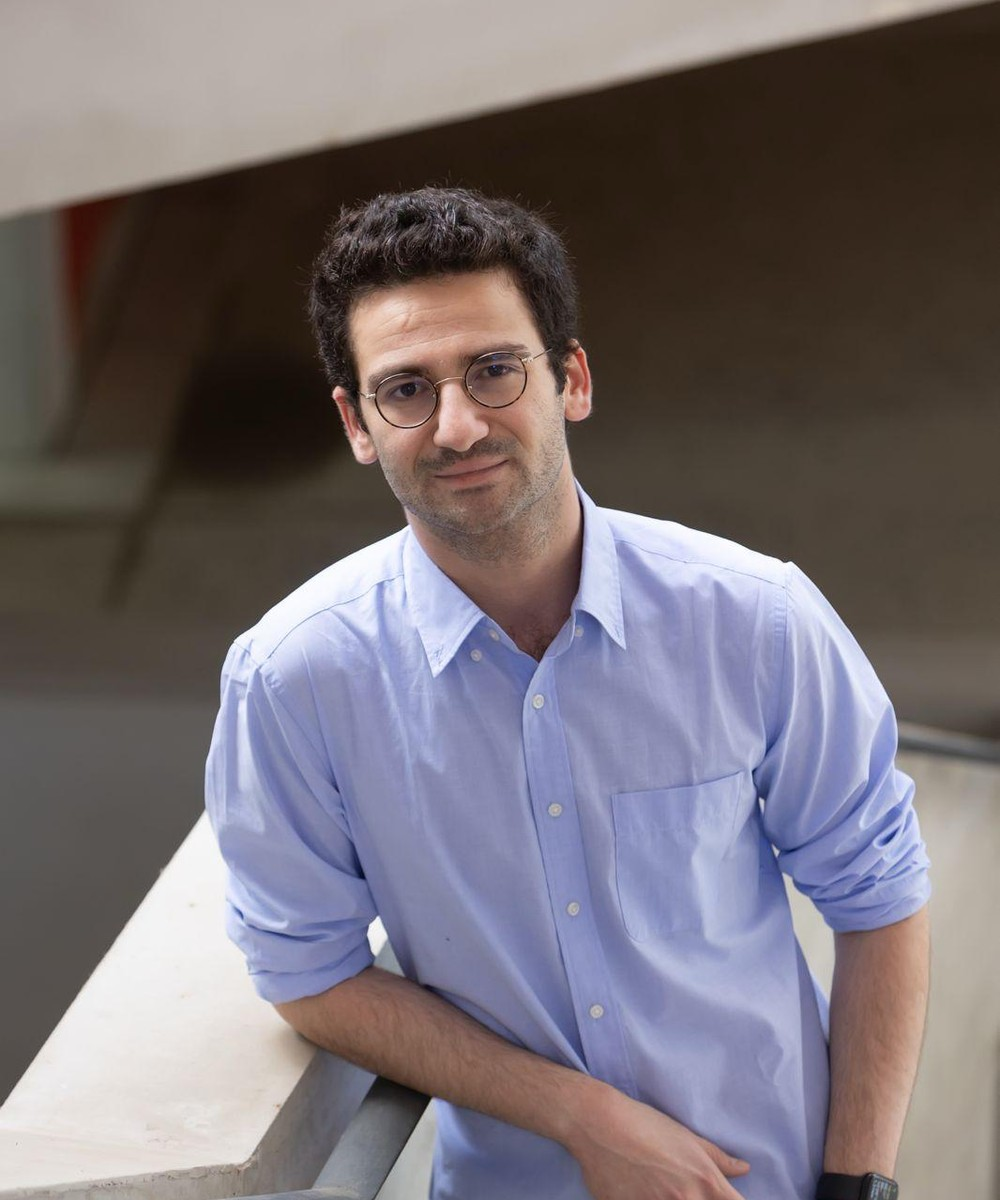
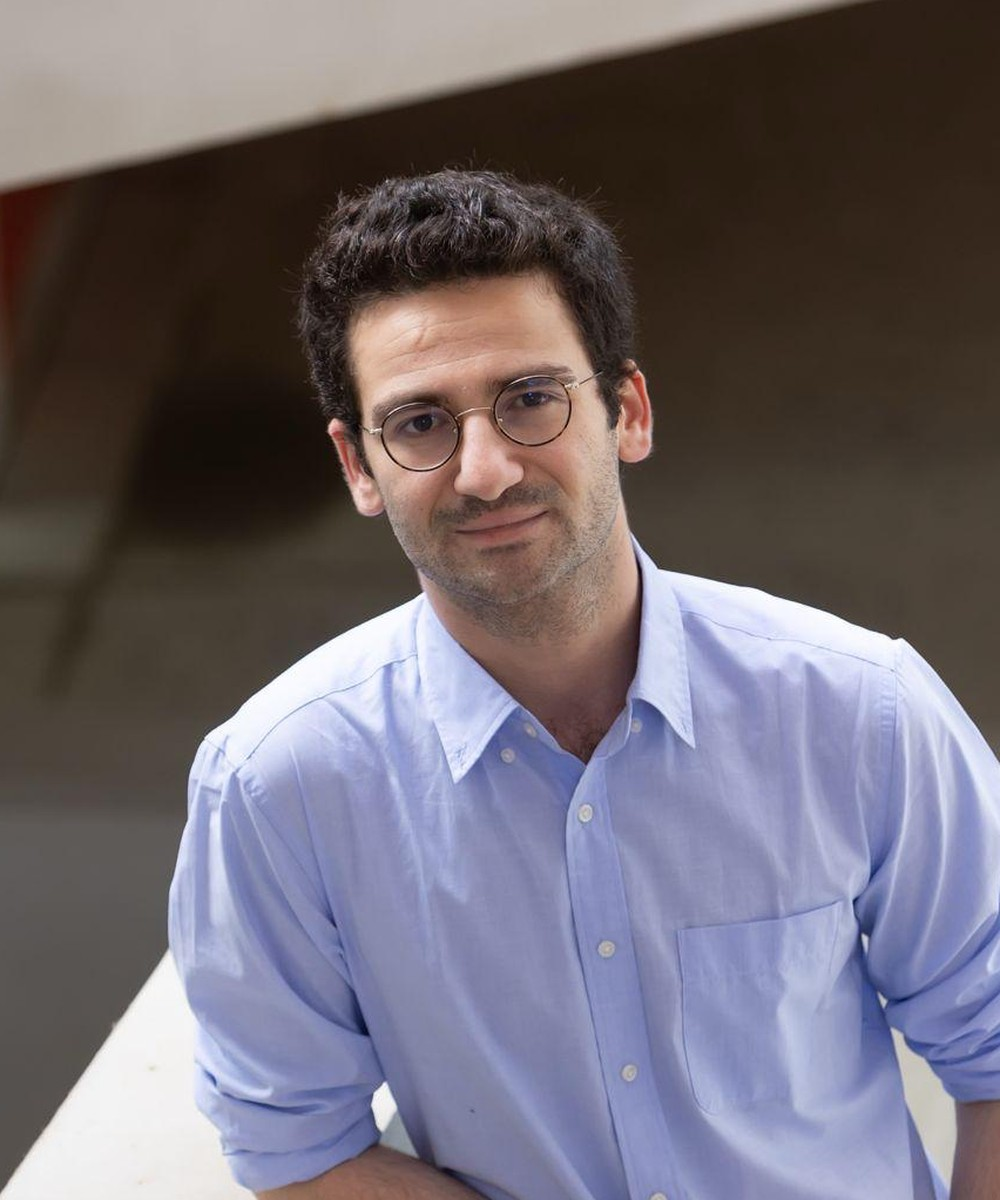
Photo recadree plus serree; bio: fellowship MSCA liee a la fiche CORDIS du projet LEGIT

diff --git a/index.html b/index.html
@@ -21,7 +21,7 @@
       <p class="about__role">Marie Curie Postdoctoral Fellow</p>
       <p class="about__affil">MIT, Harvard University</p>
 
-      <p>I'm a postdoctoral fellow, currently joining <a class="lab-link" href="https://saxelab.mit.edu">Rebecca Saxe's lab</a> at MIT and <a class="lab-link" href="https://cushmanlab.fas.harvard.edu">Fiery Cushman's lab</a> at Harvard.</p>
+      <p>I'm a postdoctoral fellow, currently joining <a class="lab-link" href="https://saxelab.mit.edu">Rebecca Saxe's lab</a> at MIT and <a class="lab-link" href="https://cushmanlab.fas.harvard.edu">Fiery Cushman's lab</a> at Harvard. I'm funded by a <a class="lab-link" href="https://cordis.europa.eu/project/id/101270054">Marie Skłodowska-Curie Global Fellowship</a> on the cognitive foundations of legitimate authority.</p>
 
       <p>I study the cognitive architecture of moral judgment: What are the mental algorithms that produce our intuitions of right and wrong? How do these cognitive algorithms, in turn, shape normative phenomena that recur across cultures—such as moral norms, religious traditions, and punitive institutions?</p>
 
